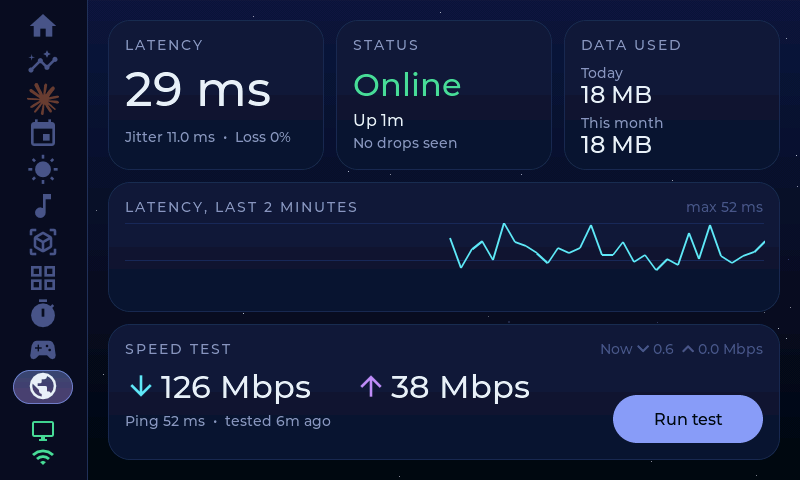
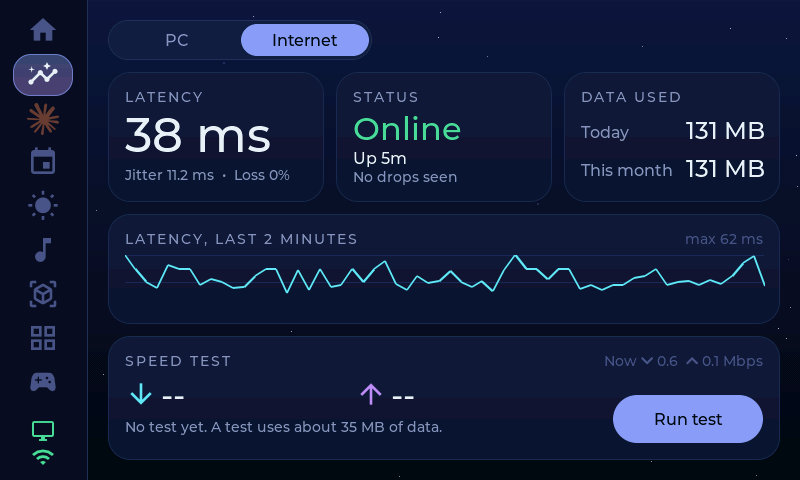
Move Internet into the Stats page with a PC / Internet switcher
The Stats page gets a segmented switcher at the top; the PC gauges and
chart and the Internet view (latency, status, data used, chart, speed
test) are two views under it, both shortened to fit. Internet no longer
has its own sidebar tab. Opening it from the Home "net" widget selects
the Internet view, and turning off the "network" page hides the view
and the switcher.

diff --git a/firmware/main/ui_stats.c b/firmware/main/ui_stats.c
@@ -7,6 +7,10 @@
 #define GAUGES 4
 #define GAUGE_W ((CONTENT_W - 3 * 12) / 4)
 #define HISTORY 60
+#define SWITCH_H 40                       // PC / Internet switcher
+#define VIEW_Y (SWITCH_H + 12)
+#define VIEW_H (CONTENT_H - VIEW_Y)        // 388
+#define GAUGE_H 176
 
 static lv_obj_t *s_arc[GAUGES], *s_val[GAUGES], *s_sub[GAUGES];
 static lv_obj_t *s_chart, *s_net, *s_disk, *s_offline, *s_names;
@@ -18,11 +22,11 @@ static const uint32_t COLORS[GAUGES] = {COL_ACCENT, COL_CYAN, COL_ACCENT2, 0xf0a
 static void make_gauge(lv_obj_t *page, int i)
 {
     lv_obj_t *c = ui_card(page);
-    lv_obj_set_size(c, GAUGE_W, 196);
+    lv_obj_set_size(c, GAUGE_W, GAUGE_H);
     lv_obj_set_pos(c, i * (GAUGE_W + 12), 0);
 
     lv_obj_t *arc = lv_arc_create(c);
-    lv_obj_set_size(arc, 124, 124);
+    lv_obj_set_size(arc, 112, 112);
     lv_obj_align(arc, LV_ALIGN_TOP_MID, 0, 0);
     lv_arc_set_rotation(arc, 135);
     lv_arc_set_bg_angles(arc, 0, 270);
@@ -38,7 +42,7 @@ static void make_gauge(lv_obj_t *page, int i)
     s_arc[i] = arc;
 
     s_val[i] = ui_label(c, &lv_font_montserrat_32, COL_TEXT, "--");
-    lv_obj_set_width(s_val[i], 124);
+    lv_obj_set_width(s_val[i], 112);
     lv_obj_set_style_text_align(s_val[i], LV_TEXT_ALIGN_CENTER, 0);
     lv_obj_align_to(s_val[i], arc, LV_ALIGN_CENTER, 0, -4);
     lv_obj_t *name = ui_label(c, &lv_font_montserrat_20, COL_TEXT, NAMES[i]);
@@ -47,13 +51,83 @@ static void make_gauge(lv_obj_t *page, int i)
     lv_obj_align(s_sub[i], LV_ALIGN_BOTTOM_MID, 0, 0);
 }
 
+static lv_obj_t *s_views[2], *s_switch, *s_seg[2];
+static int s_view;
+
+// Show the PC view (0) or the Internet view (1).
+void stats_set_view(int v)
+{
+    if (!s_views[0]) return;
+    s_view = v;
+    for (int i = 0; i < 2; i++) {
+        if (i == v) lv_obj_remove_flag(s_views[i], LV_OBJ_FLAG_HIDDEN);
+        else lv_obj_add_flag(s_views[i], LV_OBJ_FLAG_HIDDEN);
+        lv_obj_set_style_bg_opa(s_seg[i], i == v ? LV_OPA_COVER : LV_OPA_TRANSP, 0);
+        lv_obj_set_style_text_color(lv_obj_get_child(s_seg[i], 0), lv_color_hex(i == v ? COL_BG : COL_MUTED), 0);
+    }
+}
+
+// The Internet view exists only while the "network" page is turned on.
+void stats_set_net_enabled(bool on)
+{
+    if (!s_switch) return;
+    if (on) lv_obj_remove_flag(s_switch, LV_OBJ_FLAG_HIDDEN);
+    else lv_obj_add_flag(s_switch, LV_OBJ_FLAG_HIDDEN);
+    if (!on && s_view) stats_set_view(0);
+}
+
+static void seg_cb(lv_event_t *e)
+{
+    stats_set_view((int)(intptr_t)lv_event_get_user_data(e));
+}
+
+static lv_obj_t *make_view(lv_obj_t *page)
+{
+    lv_obj_t *v = lv_obj_create(page);
+    lv_obj_remove_style_all(v);
+    lv_obj_set_size(v, CONTENT_W, VIEW_H);
+    lv_obj_set_pos(v, 0, VIEW_Y);
+    lv_obj_remove_flag(v, LV_OBJ_FLAG_SCROLLABLE);
+    return v;
+}
+
 void stats_create(lv_obj_t *page)
 {
+    // Segmented switcher: PC | Internet.
+    s_switch = lv_obj_create(page);
+    lv_obj_remove_style_all(s_switch);
+    lv_obj_set_size(s_switch, 2 * 128 + 8, SWITCH_H);
+    lv_obj_set_pos(s_switch, 0, 0);
+    lv_obj_set_style_radius(s_switch, SWITCH_H / 2, 0);
+    lv_obj_set_style_bg_color(s_switch, lv_color_hex(COL_CARD), 0);
+    lv_obj_set_style_bg_opa(s_switch, LV_OPA_COVER, 0);
+    lv_obj_set_style_border_color(s_switch, lv_color_hex(COL_BORDER), 0);
+    lv_obj_set_style_border_width(s_switch, 1, 0);
+    lv_obj_remove_flag(s_switch, LV_OBJ_FLAG_SCROLLABLE);
+    static const char *labels[2] = {"PC", "Internet"};
+    for (int i = 0; i < 2; i++) {
+        lv_obj_t *b = lv_button_create(s_switch);
+        lv_obj_remove_style_all(b);
+        lv_obj_set_size(b, 128, SWITCH_H - 8);
+        lv_obj_set_pos(b, 4 + i * 128, 3);
+        lv_obj_set_style_radius(b, (SWITCH_H - 8) / 2, 0);
+        lv_obj_set_style_bg_color(b, lv_color_hex(COL_ACCENT), 0);
+        lv_obj_set_ext_click_area(b, 6);
+        lv_obj_t *l = ui_label(b, &lv_font_montserrat_16, COL_MUTED, labels[i]);
+        lv_obj_center(l);
+        lv_obj_add_event_cb(b, seg_cb, LV_EVENT_CLICKED, (void *)(intptr_t)i);
+        s_seg[i] = b;
+    }
+    s_views[0] = make_view(page);
+    s_views[1] = make_view(page);
+    net_page_create(s_views[1]);
+    page = s_views[0];
+
     for (int i = 0; i < GAUGES; i++) make_gauge(page, i);
 
     lv_obj_t *c = ui_card(page);
-    lv_obj_set_size(c, CONTENT_W, CONTENT_H - 208);
-    lv_obj_set_pos(c, 0, 208);
+    lv_obj_set_size(c, CONTENT_W, VIEW_H - GAUGE_H - 12);
+    lv_obj_set_pos(c, 0, GAUGE_H + 12);
 
     lv_obj_t *t = ui_caption(c, "LAST MINUTE");
     lv_obj_set_pos(t, 0, 0);
@@ -70,7 +144,7 @@ void stats_create(lv_obj_t *page)
     lv_obj_align(s_names, LV_ALIGN_BOTTOM_LEFT, 0, 4);
 
     s_chart = lv_chart_create(c);
-    lv_obj_set_size(s_chart, CONTENT_W - 32, 150);
+    lv_obj_set_size(s_chart, CONTENT_W - 32, VIEW_H - GAUGE_H - 12 - 32 - 28 - 22);
     lv_obj_set_pos(s_chart, 0, 28);
     lv_chart_set_type(s_chart, LV_CHART_TYPE_LINE);
     lv_chart_set_point_count(s_chart, HISTORY);
@@ -90,6 +164,7 @@ void stats_create(lv_obj_t *page)
 
     s_offline = ui_label(c, &lv_font_montserrat_20, COL_DIM, "Start the companion app on your PC");
     lv_obj_center(s_offline);
+    stats_set_view(0);
 }
 
 static void fmt_rate(char *buf, size_t n, float kbps)

diff --git a/firmware/main/ui_net.c b/firmware/main/ui_net.c
@@ -10,9 +10,11 @@
 #include "ui_internal.h"
 
 #define CARD_W ((CONTENT_W - 2 * 12) / 3)
-#define TOP_H 150
-#define CHART_H 130
-#define BOT_H (CONTENT_H - TOP_H - CHART_H - 24)
+// Sizes for the Internet view inside the Stats page (388 px tall).
+#define VIEW_H 388
+#define TOP_H 130
+#define CHART_H 110
+#define BOT_H (VIEW_H - TOP_H - CHART_H - 24)
 
 hub_net_t g_net;
 
@@ -77,21 +79,24 @@ static lv_obj_t *line(lv_obj_t *parent, const lv_font_t *font, uint32_t color, i
 void net_page_create(lv_obj_t *page)
 {
     lv_obj_t *c = top_card(page, 0, "LATENCY");
-    s_lat = line(c, &lv_font_montserrat_48, COL_TEXT, 26);
-    s_lat_sub = line(c, &lv_font_montserrat_14, COL_MUTED, 92);
+    s_lat = line(c, &lv_font_montserrat_48, COL_TEXT, 20);
+    s_lat_sub = line(c, &lv_font_montserrat_14, COL_MUTED, 78);
 
     c = top_card(page, 1, "STATUS");
-    s_status = line(c, &lv_font_montserrat_32, COL_GOOD, 30);
-    s_up = line(c, &lv_font_montserrat_16, COL_TEXT, 74);
-    s_drop = line(c, &lv_font_montserrat_14, COL_MUTED, 98);
+    s_status = line(c, &lv_font_montserrat_32, COL_GOOD, 22);
+    s_up = line(c, &lv_font_montserrat_16, COL_TEXT, 60);
+    s_drop = line(c, &lv_font_montserrat_14, COL_MUTED, 80);
 
     c = top_card(page, 2, "DATA USED");
-    lv_obj_t *l = line(c, &lv_font_montserrat_14, COL_MUTED, 28);
+    // Label on the left, amount on the right, one row each.
+    lv_obj_t *l = line(c, &lv_font_montserrat_16, COL_MUTED, 34);
     lv_label_set_text(l, "Today");
-    s_today = line(c, &lv_font_montserrat_24, COL_TEXT, 44);
-    l = line(c, &lv_font_montserrat_14, COL_MUTED, 78);
+    s_today = line(c, &lv_font_montserrat_24, COL_TEXT, 28);
+    lv_obj_set_style_text_align(s_today, LV_TEXT_ALIGN_RIGHT, 0);
+    l = line(c, &lv_font_montserrat_16, COL_MUTED, 72);
     lv_label_set_text(l, "This month");
-    s_month = line(c, &lv_font_montserrat_24, COL_TEXT, 94);
+    s_month = line(c, &lv_font_montserrat_24, COL_TEXT, 66);
+    lv_obj_set_style_text_align(s_month, LV_TEXT_ALIGN_RIGHT, 0);
 
     // Latency over the last two minutes.
     lv_obj_t *ch = ui_card(page);
@@ -122,15 +127,15 @@ void net_page_create(lv_obj_t *page)
     cap = ui_caption(b, "SPEED TEST");
     lv_obj_set_pos(cap, 0, 0);
     lv_obj_t *dl = ui_label(b, g_icon_32, COL_CYAN, ICON_ARROW_DOWNWARD);
-    lv_obj_set_pos(dl, 0, 30);
+    lv_obj_set_pos(dl, 0, 26);
     s_down = ui_label(b, &lv_font_montserrat_32, COL_TEXT, "");
-    lv_obj_set_pos(s_down, 36, 28);
+    lv_obj_set_pos(s_down, 36, 24);
     lv_obj_t *ul = ui_label(b, g_icon_32, COL_ACCENT2, ICON_ARROW_UPWARD);
-    lv_obj_set_pos(ul, 230, 30);
+    lv_obj_set_pos(ul, 230, 26);
     s_upl = ui_label(b, &lv_font_montserrat_32, COL_TEXT, "");
-    lv_obj_set_pos(s_upl, 266, 28);
+    lv_obj_set_pos(s_upl, 266, 24);
     s_sp_sub = ui_label(b, &lv_font_montserrat_14, COL_MUTED, "");
-    lv_obj_set_pos(s_sp_sub, 0, 72);
+    lv_obj_set_pos(s_sp_sub, 0, 66);
     s_now = ui_label(b, &lv_font_montserrat_14, COL_DIM, "");
     lv_obj_align(s_now, LV_ALIGN_TOP_RIGHT, 0, 0);
 
@@ -148,8 +153,8 @@ void net_page_create(lv_obj_t *page)
     s_run_lbl = ui_label(s_run, &lv_font_montserrat_16, COL_BG, "Run test");
     lv_obj_center(s_run_lbl);
 
-    s_offline = ui_label(page, &lv_font_montserrat_16, COL_DIM, "Start the companion app on your PC");
-    lv_obj_align(s_offline, LV_ALIGN_BOTTOM_MID, 0, -6);
+    s_offline = ui_label(ch, &lv_font_montserrat_16, COL_DIM, "Start the companion app on your PC");
+    lv_obj_align(s_offline, LV_ALIGN_CENTER, 0, 10);
     net_refresh();
 }
 

diff --git a/firmware/main/ui.c b/firmware/main/ui.c
@@ -278,6 +278,12 @@ void ui_send_media(const char *cmd, int value)
 
 void ui_show_page(int page)
 {
+    // Internet is a view inside the Stats page, not a page of its own.
+    if (page == PAGE_NETWORK) {
+        if (!(g_pages_mask & (1u << PAGE_NETWORK))) return;
+        stats_set_view(1);
+        page = PAGE_STATS;
+    }
     if (page < 0 || page >= PAGE_COUNT || page == s_page) return;
     if (!(g_pages_mask & (1u << page))) page = PAGE_HOME;  // turned off in config
     // Instant switch: hiding/showing redraws only the page area once.
@@ -305,7 +311,7 @@ static void apply_layout(void)
 {
     int shown = 0;
     for (int i = 0; i < PAGE_COUNT; i++) {
-        bool on = g_pages_mask & (1u << i);
+        bool on = (g_pages_mask & (1u << i)) && i != PAGE_NETWORK;   // Internet lives in Stats
         if (on) lv_obj_remove_flag(s_nav[i], LV_OBJ_FLAG_HIDDEN);
         else lv_obj_add_flag(s_nav[i], LV_OBJ_FLAG_HIDDEN);
         shown += on;
@@ -317,6 +323,7 @@ static void apply_layout(void)
     int tab_h = shown ? avail / shown : RAIL_TAB_MAX;
     if (tab_h > RAIL_TAB_MAX) tab_h = RAIL_TAB_MAX;
     for (int i = 0; i < PAGE_COUNT; i++) lv_obj_set_height(s_nav[i], tab_h);
+    stats_set_net_enabled(g_pages_mask & (1u << PAGE_NETWORK));
     home_apply_layout();
     if (s_page >= 0 && !(g_pages_mask & (1u << s_page))) {
         int old = s_page;
@@ -553,6 +560,11 @@ static void tick_cb(lv_timer_t *t)
 
 // ---- public API ------------------------------------------------------------
 
+static void page_none(lv_obj_t *page)
+{
+    (void)page;   // the Internet view is built by stats_create()
+}
+
 void ui_init(void)
 {
     size_t icon_len = icons_ttf_end - icons_ttf_start;
@@ -585,7 +597,7 @@ void ui_init(void)
 
     void (*creators[PAGE_COUNT])(lv_obj_t *) = {
         home_create, stats_create, claude_create, calendar_create, weather_page_create, media_create,
-        printer_create, shortcuts_create, timer_page_create, games_page_create, net_page_create,
+        printer_create, shortcuts_create, timer_page_create, games_page_create, page_none,
     };
     for (int i = 0; i < PAGE_COUNT; i++) {
         lv_obj_t *p = lv_obj_create(scr);

diff --git a/companion/deskhub/pages.py b/companion/deskhub/pages.py
@@ -5,7 +5,7 @@ ALL_PAGES = ["home", "stats", "ai", "calendar", "weather", "media", "printer", "
 PAGE_LABELS = {
     "stats": "PC stats", "ai": "AI agent usage", "calendar": "Calendar", "weather": "Weather",
     "media": "Now playing", "printer": "3D printer", "shortcuts": "Shortcuts",
-    "timer": "Timer", "games": "Games", "network": "Internet",
+    "timer": "Timer", "games": "Games", "network": "Internet (a view on the Stats page)",
 }
 
 

diff --git a/firmware/main/ui_internal.h b/firmware/main/ui_internal.h
@@ -151,3 +151,5 @@ void ui_fmt_bytes(char *buf, size_t n, double bytes);   // "3.2 GB"
 void ui_fmt_ago(char *buf, size_t n, time_t t);         // "5m ago", "2h ago"
 void home_refresh_net(void);
 void net_refresh_live(void);   // the "Now" line, on each stats message
+void stats_set_view(int view);          // 0 = PC, 1 = Internet
+void stats_set_net_enabled(bool on);

diff --git a/README.md b/README.md
@@ -27,7 +27,7 @@ The board runs custom firmware (ESP-IDF + LVGL). A small Python app on your Wind
 | Shortcuts | Up to 16 buttons: key combos, apps, folders, URLs, volume, media, lock PC | companion |
 | 3D printer | Bambu Lab print state, progress, temperatures and AMS colours for up to 4 printers (optional) | companion, over MQTT |
 | Games | The Steam game you're playing with its cover and session time, your five most recent games, and a tap to launch one (optional) | companion, from Steam's local files |
-| Internet | Online status, latency, jitter and packet loss with a one-minute chart, uptime and the last drop, data used today and this month, and an on-demand speed test | companion |
+| Stats: Internet view | Online status, latency, jitter and packet loss with a one-minute chart, uptime and the last drop, data used today and this month, and an on-demand speed test | companion |
 | Timer | Countdown with presets from 1 to 45 minutes, pause and reset, and a full-screen "Time's up" card. The time left shows on its sidebar tab | the board itself, works without the PC |
 
 ## What you need
@@ -194,7 +194,7 @@ process = ["java.exe", "javaw.exe"]
 
 ## Internet
 
-The Internet page (and the `net` Home widget) shows how your connection is doing:
+The Stats page has two views, switched with **PC | Internet** at the top. The Internet view (and the `net` Home widget, which opens it) shows how your connection is doing. Turning off the `network` page in `[pages]` removes the Internet view and the switcher.
 
 - **Status, latency, jitter and loss.** The companion probes every 2 seconds and keeps the last 60 samples for the chart. Latency is the median of the last five; jitter is how much it varies between probes; loss is the share of failed probes. The latency is a TCP connect to `1.1.1.1:443` (falling back to `8.8.8.8:443`), not an ICMP ping, so it needs no special rights and can read a few milliseconds higher than `ping`. You count as online while at least one of the last three probes succeeded.
 - **Uptime and the last drop.** How long the connection has been up, and when it last went down and for how long.

diff --git a/ROADMAP.md b/ROADMAP.md
@@ -50,6 +50,12 @@ Ideas for Desk Hub, roughly in order of value. Each item notes how it would work
   - It creates the Startup-folder shortcut, and `--remove` undoes it.
   - Setup offers it as its last step.
 
+- [ ] **Configurator UI on the PC.** A settings window instead of editing `config.toml` and answering setup questions in a terminal.
+  - **Sections:** Wi-Fi and city, pages (toggles and order), a drag-and-drop Home layout with a live preview at 800 × 480, calendars, printers, shortcut tiles (icon picker, colour, action), custom games (pick from open windows), Claude/Codex options, internet, and Steam key.
+  - **How:** a small local web app served by the companion on `127.0.0.1` (no new install; opens in the default browser), editing `config.toml` with tomlkit so comments survive. Secrets still go to the Windows credential store.
+  - **Apply live:** saving pushes layout, Home and tile changes to the board at once; settings that need firmware (Wi-Fi, city, units) offer **Build and flash**.
+  - Opened from the tray icon's **Edit config** and by `uv run deskhub-config`.
+
 - [ ] **Tray icon for the companion.** Show the companion running in the Windows taskbar's notification area instead of a terminal window, so it can run hidden and still be easy to control.
   - The icon shows whether the board is connected (for example, coloured when connected and grey when it isn't), with a tooltip naming the board and its IP.
   - Right-click menu: **Edit config** (opens `config.toml` in the default editor), **Run setup**, **Restart** (reloads config.toml and reconnects), **Open log**, and **Quit**.
